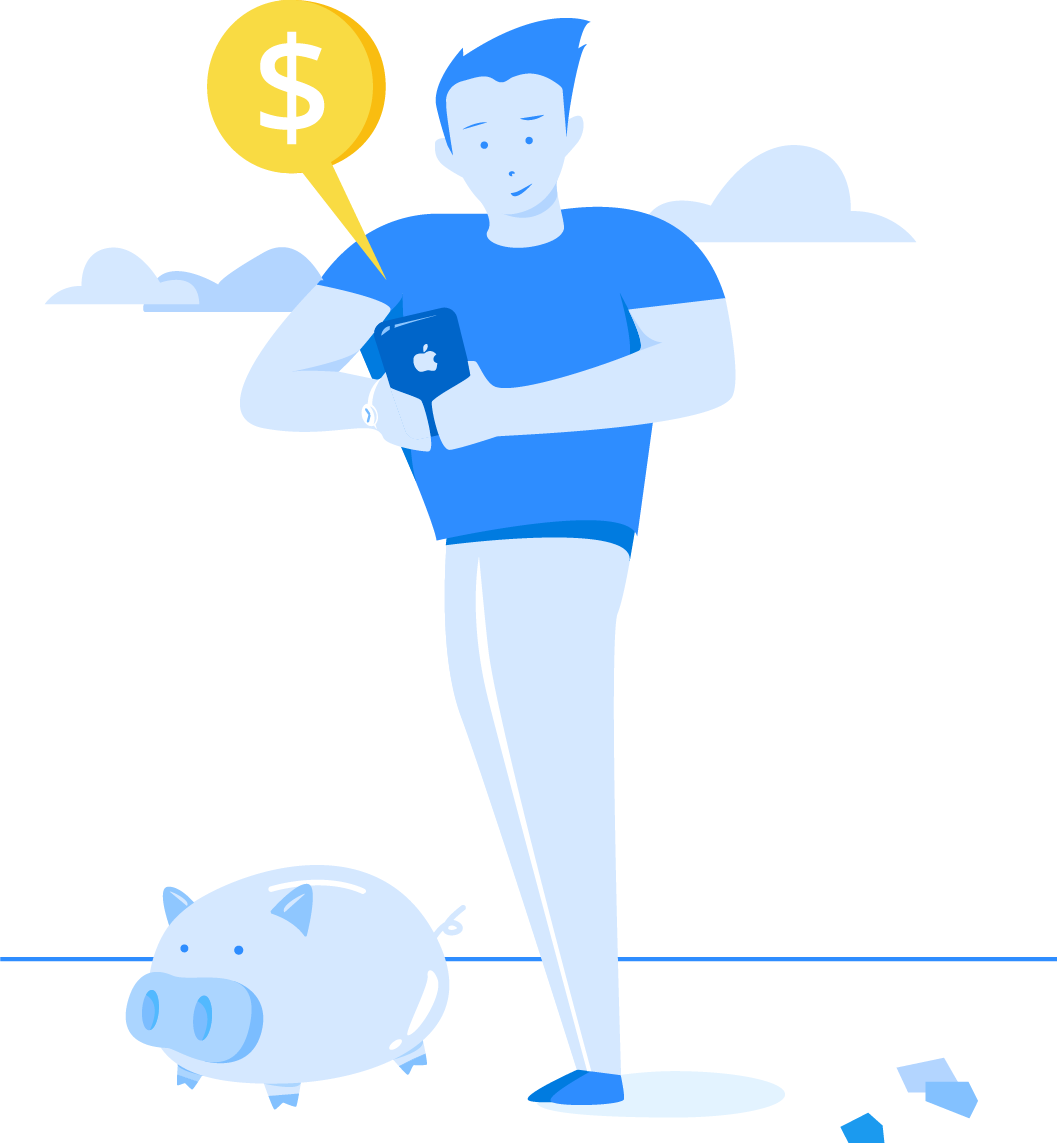
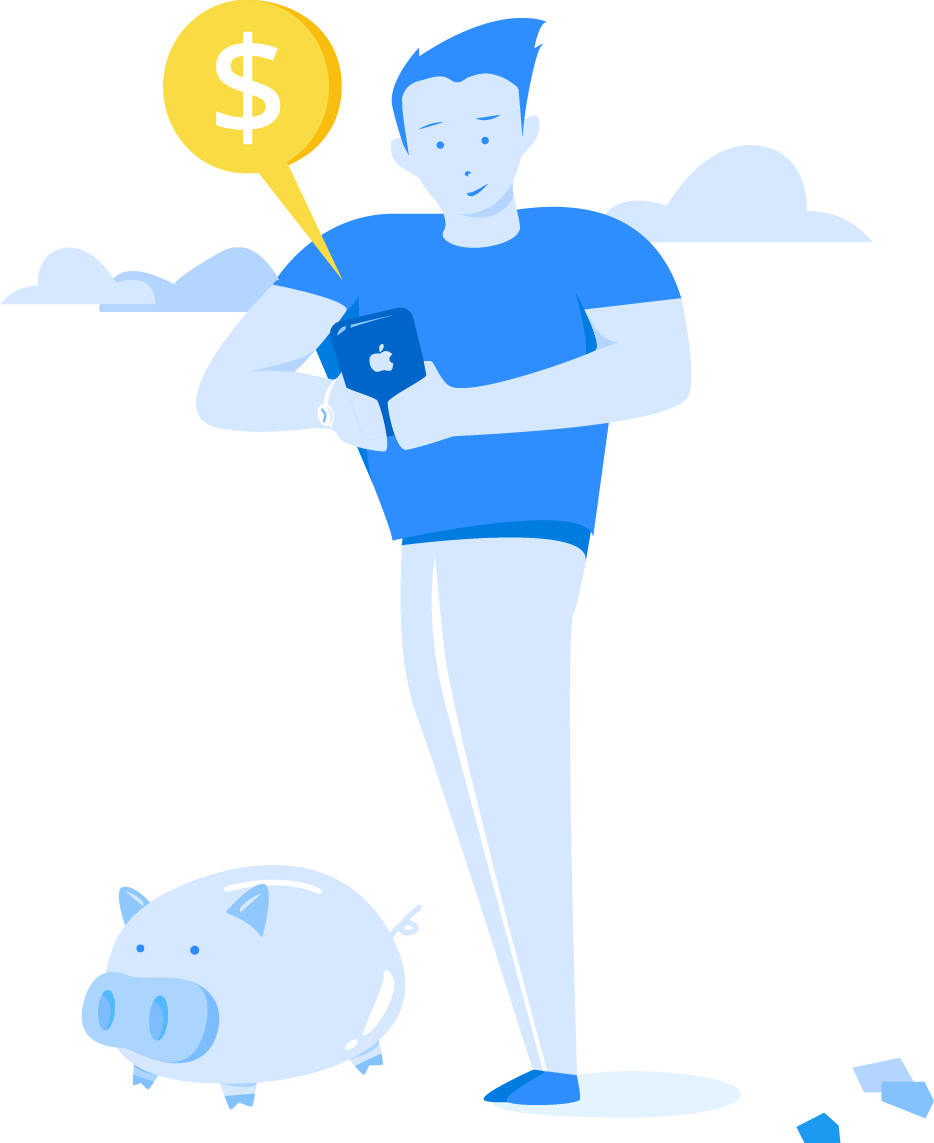
seongjoonNew

diff --git a/surveySlide/pages/static/pages/style.css b/surveySlide/pages/static/pages/style.css
@@ -31,7 +31,7 @@ html {
     float: right;
     font-weight: 400;
     font-size: 14px;
-    margin-top: 40px;
+    margin-top: 35px;
     margin-right:200px;
     z-index: 5;
 }
@@ -282,7 +282,7 @@ input:hover{
 }
 
 .interviewer_image {
-    width: 400px;
+    width: 350px;
 }
 
 .interviewer_title {
